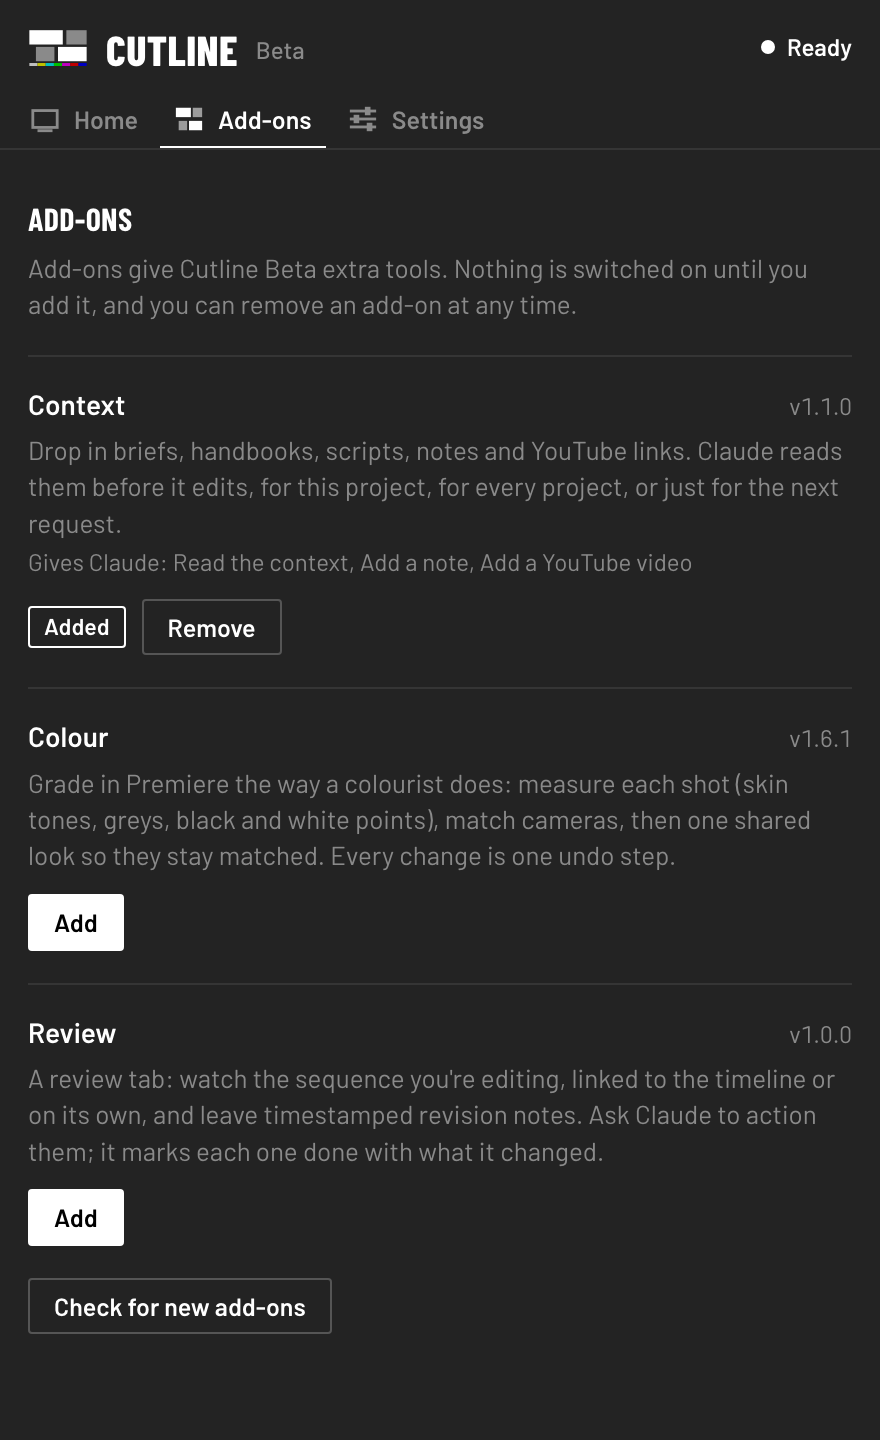
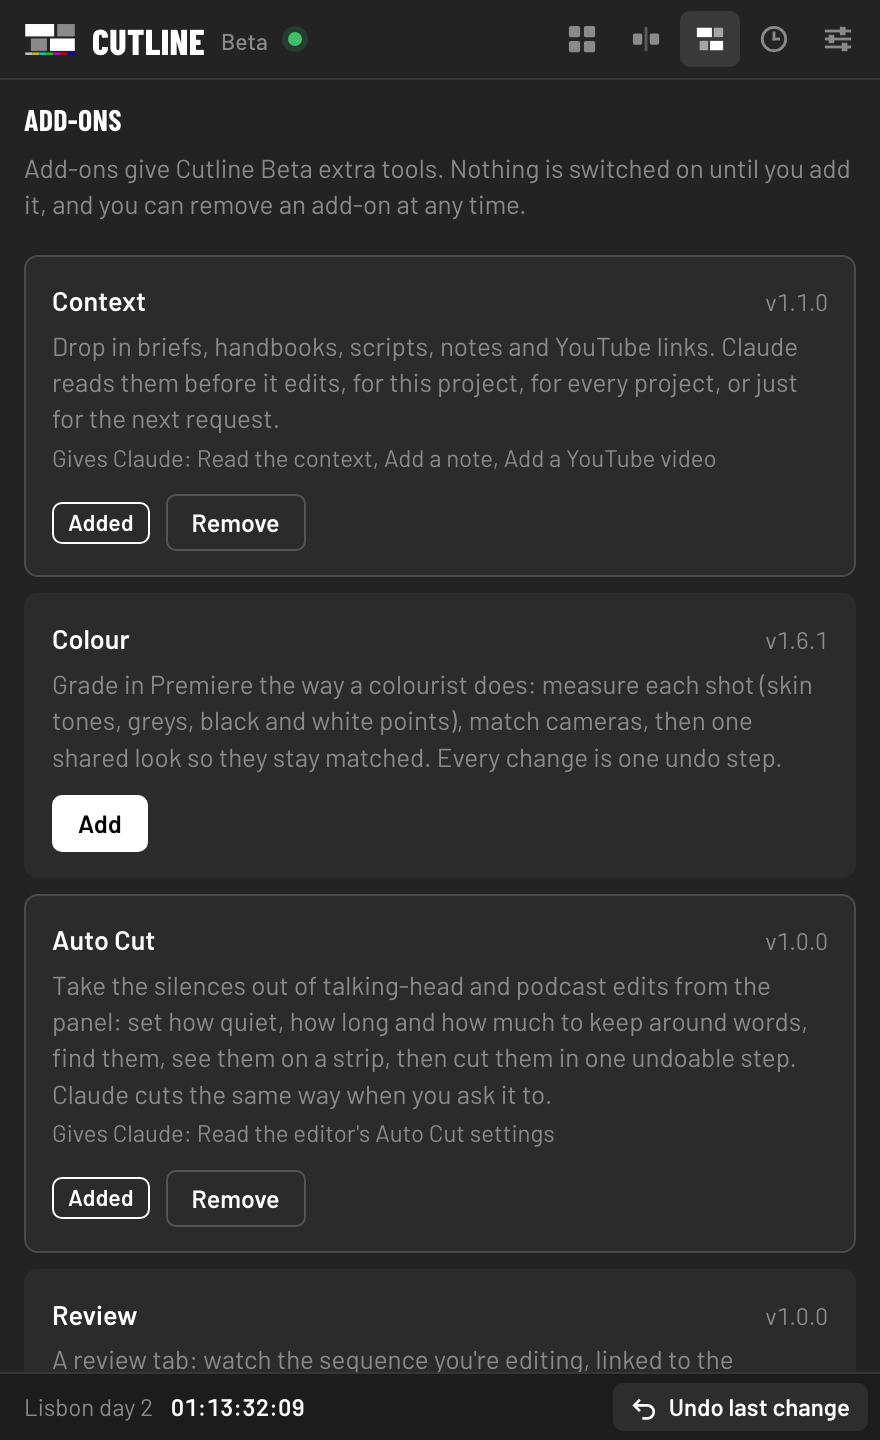
Home: panel screenshots from the 0.17 tile browser

diff --git a/index.html b/index.html
@@ -12,8 +12,8 @@
 <link rel="icon" href="img/favicon.svg" type="image/svg+xml">
 <link rel="preconnect" href="https://fonts.googleapis.com"><link rel="preconnect" href="https://fonts.gstatic.com" crossorigin>
 <link rel="stylesheet" href="https://fonts.googleapis.com/css2?family=Barlow+Condensed:wght@600;700;800&family=Barlow:ital,wght@0,400;0,500;0,600;1,400&display=swap">
-<link rel="stylesheet" href="assets/site.css?v=1792505462">
-<link rel="stylesheet" href="assets/home.css?v=1792505462">
+<link rel="stylesheet" href="assets/site.css?v=1792506187">
+<link rel="stylesheet" href="assets/home.css?v=1792506187">
 </head>
 <body class="home">
 <header class="top"><div class="wrap">
@@ -89,11 +89,11 @@
 <section class="panel-sec" data-marker="The panel">
  <div class="wrap panel-grid">
   <figure class="panel-shot" id="panel-shot">
-   <img src="img/panel/panel-home@2x.png" width="440" height="720" loading="lazy" alt="The Cutline Beta panel docked in Premiere Pro, showing the open sequence and timecode, the last change Cutline made, and an Undo last change button.">
+   <img src="img/panel/panel-home@2x.png" width="440" height="720" loading="lazy" alt="The Cutline Beta panel: a grid of picture tiles for things to ask for, such as Cut a section, Remove gaps and Duck the music, with the open sequence, its timecode and an Undo last change button along the bottom.">
   </figure>
   <div class="panel-copy">
    <h2>It lives next to your timeline</h2>
-   <p>Cutline Beta docks as a panel in Premiere Pro and After Effects. It shows what you have open, the last change it made and a button to take it back. You talk to it from the Claude desktop app, the same way you&rsquo;d brief an assistant editor.</p>
+   <p>Cutline Beta docks as a panel in Premiere Pro and After Effects. It&rsquo;s full of ideas for what to ask, as picture tiles you click to copy, and the bar along the bottom shows what you have open and an undo for Cutline&rsquo;s last change. You talk to it from the Claude desktop app, the same way you&rsquo;d brief an assistant editor.</p>
    <p>It never saves your project unless you ask, keeps a backup of the sequence before big batch edits, and asks before anything risky.</p>
   </div>
  </div>
@@ -158,6 +158,6 @@
  </div>
  <p class="tm">Cutline is independent software. Adobe, Premiere Pro and After Effects are trademarks of Adobe. Claude is a trademark of Anthropic. ChatGPT is a trademark of OpenAI. Cutline isn't made, endorsed or sponsored by any of them. &copy; 2026 Cutline.</p>
 </div></footer><div class="seq" id="seq" aria-hidden="true"><div class="seq-track"><div class="seq-marks" id="seq-marks"></div><div class="seq-head" id="seq-head"></div></div><span class="seq-tc" id="seq-tc">00:00:00:00</span></div>
-<script src="assets/site.js?v=1792505462" defer></script>
+<script src="assets/site.js?v=1792506187" defer></script>
 </body>
 </html>

diff --git a/help/user-guide.html b/help/user-guide.html
@@ -12,7 +12,7 @@
 <link rel="icon" href="../img/favicon.svg" type="image/svg+xml">
 <link rel="preconnect" href="https://fonts.googleapis.com"><link rel="preconnect" href="https://fonts.gstatic.com" crossorigin>
 <link rel="stylesheet" href="https://fonts.googleapis.com/css2?family=Barlow+Condensed:wght@600;700;800&family=Barlow:ital,wght@0,400;0,500;0,600;1,400&display=swap">
-<link rel="stylesheet" href="../assets/site.css?v=1792505462">
+<link rel="stylesheet" href="../assets/site.css?v=1792506187">
 </head>
 <body>
 <header class="top"><div class="wrap">
@@ -133,6 +133,6 @@
  </div>
  <p class="tm">Cutline is independent software. Adobe, Premiere Pro and After Effects are trademarks of Adobe. Claude is a trademark of Anthropic. ChatGPT is a trademark of OpenAI. Cutline isn't made, endorsed or sponsored by any of them. &copy; 2026 Cutline.</p>
 </div></footer><div class="seq" id="seq" aria-hidden="true"><div class="seq-track"><div class="seq-marks" id="seq-marks"></div><div class="seq-head" id="seq-head"></div></div><span class="seq-tc" id="seq-tc">00:00:00:00</span></div>
-<script src="../assets/site.js?v=1792505462" defer></script>
+<script src="../assets/site.js?v=1792506187" defer></script>
 </body>
 </html>

diff --git a/help/commands.html b/help/commands.html
@@ -12,7 +12,7 @@
 <link rel="icon" href="../img/favicon.svg" type="image/svg+xml">
 <link rel="preconnect" href="https://fonts.googleapis.com"><link rel="preconnect" href="https://fonts.gstatic.com" crossorigin>
 <link rel="stylesheet" href="https://fonts.googleapis.com/css2?family=Barlow+Condensed:wght@600;700;800&family=Barlow:ital,wght@0,400;0,500;0,600;1,400&display=swap">
-<link rel="stylesheet" href="../assets/site.css?v=1792505462">
+<link rel="stylesheet" href="../assets/site.css?v=1792506187">
 </head>
 <body>
 <header class="top"><div class="wrap">
@@ -86,6 +86,6 @@
  </div>
  <p class="tm">Cutline is independent software. Adobe, Premiere Pro and After Effects are trademarks of Adobe. Claude is a trademark of Anthropic. ChatGPT is a trademark of OpenAI. Cutline isn't made, endorsed or sponsored by any of them. &copy; 2026 Cutline.</p>
 </div></footer><div class="seq" id="seq" aria-hidden="true"><div class="seq-track"><div class="seq-marks" id="seq-marks"></div><div class="seq-head" id="seq-head"></div></div><span class="seq-tc" id="seq-tc">00:00:00:00</span></div>
-<script src="../assets/site.js?v=1792505462" defer></script>
+<script src="../assets/site.js?v=1792506187" defer></script>
 </body>
 </html>

diff --git a/help/faq.html b/help/faq.html
@@ -12,7 +12,7 @@
 <link rel="icon" href="../img/favicon.svg" type="image/svg+xml">
 <link rel="preconnect" href="https://fonts.googleapis.com"><link rel="preconnect" href="https://fonts.gstatic.com" crossorigin>
 <link rel="stylesheet" href="https://fonts.googleapis.com/css2?family=Barlow+Condensed:wght@600;700;800&family=Barlow:ital,wght@0,400;0,500;0,600;1,400&display=swap">
-<link rel="stylesheet" href="../assets/site.css?v=1792505462">
+<link rel="stylesheet" href="../assets/site.css?v=1792506187">
 </head>
 <body>
 <header class="top"><div class="wrap">
@@ -82,6 +82,6 @@
  </div>
  <p class="tm">Cutline is independent software. Adobe, Premiere Pro and After Effects are trademarks of Adobe. Claude is a trademark of Anthropic. ChatGPT is a trademark of OpenAI. Cutline isn't made, endorsed or sponsored by any of them. &copy; 2026 Cutline.</p>
 </div></footer><div class="seq" id="seq" aria-hidden="true"><div class="seq-track"><div class="seq-marks" id="seq-marks"></div><div class="seq-head" id="seq-head"></div></div><span class="seq-tc" id="seq-tc">00:00:00:00</span></div>
-<script src="../assets/site.js?v=1792505462" defer></script>
+<script src="../assets/site.js?v=1792506187" defer></script>
 </body>
 </html>

diff --git a/help/index.html b/help/index.html
@@ -12,7 +12,7 @@
 <link rel="icon" href="../img/favicon.svg" type="image/svg+xml">
 <link rel="preconnect" href="https://fonts.googleapis.com"><link rel="preconnect" href="https://fonts.gstatic.com" crossorigin>
 <link rel="stylesheet" href="https://fonts.googleapis.com/css2?family=Barlow+Condensed:wght@600;700;800&family=Barlow:ital,wght@0,400;0,500;0,600;1,400&display=swap">
-<link rel="stylesheet" href="../assets/site.css?v=1792505462">
+<link rel="stylesheet" href="../assets/site.css?v=1792506187">
 </head>
 <body>
 <header class="top"><div class="wrap">
@@ -31,6 +31,6 @@
  </div>
  <p class="tm">Cutline is independent software. Adobe, Premiere Pro and After Effects are trademarks of Adobe. Claude is a trademark of Anthropic. ChatGPT is a trademark of OpenAI. Cutline isn't made, endorsed or sponsored by any of them. &copy; 2026 Cutline.</p>
 </div></footer><div class="seq" id="seq" aria-hidden="true"><div class="seq-track"><div class="seq-marks" id="seq-marks"></div><div class="seq-head" id="seq-head"></div></div><span class="seq-tc" id="seq-tc">00:00:00:00</span></div>
-<script src="../assets/site.js?v=1792505462" defer></script>
+<script src="../assets/site.js?v=1792506187" defer></script>
 </body>
 </html>

diff --git a/help/licence-and-devices.html b/help/licence-and-devices.html
@@ -12,7 +12,7 @@
 <link rel="icon" href="../img/favicon.svg" type="image/svg+xml">
 <link rel="preconnect" href="https://fonts.googleapis.com"><link rel="preconnect" href="https://fonts.gstatic.com" crossorigin>
 <link rel="stylesheet" href="https://fonts.googleapis.com/css2?family=Barlow+Condensed:wght@600;700;800&family=Barlow:ital,wght@0,400;0,500;0,600;1,400&display=swap">
-<link rel="stylesheet" href="../assets/site.css?v=1792505462">
+<link rel="stylesheet" href="../assets/site.css?v=1792506187">
 </head>
 <body>
 <header class="top"><div class="wrap">
@@ -56,6 +56,6 @@
  </div>
  <p class="tm">Cutline is independent software. Adobe, Premiere Pro and After Effects are trademarks of Adobe. Claude is a trademark of Anthropic. ChatGPT is a trademark of OpenAI. Cutline isn't made, endorsed or sponsored by any of them. &copy; 2026 Cutline.</p>
 </div></footer><div class="seq" id="seq" aria-hidden="true"><div class="seq-track"><div class="seq-marks" id="seq-marks"></div><div class="seq-head" id="seq-head"></div></div><span class="seq-tc" id="seq-tc">00:00:00:00</span></div>
-<script src="../assets/site.js?v=1792505462" defer></script>
+<script src="../assets/site.js?v=1792506187" defer></script>
 </body>
 </html>

diff --git a/help/quick-start.html b/help/quick-start.html
@@ -12,7 +12,7 @@
 <link rel="icon" href="../img/favicon.svg" type="image/svg+xml">
 <link rel="preconnect" href="https://fonts.googleapis.com"><link rel="preconnect" href="https://fonts.gstatic.com" crossorigin>
 <link rel="stylesheet" href="https://fonts.googleapis.com/css2?family=Barlow+Condensed:wght@600;700;800&family=Barlow:ital,wght@0,400;0,500;0,600;1,400&display=swap">
-<link rel="stylesheet" href="../assets/site.css?v=1792505462">
+<link rel="stylesheet" href="../assets/site.css?v=1792506187">
 </head>
 <body>
 <header class="top"><div class="wrap">
@@ -45,6 +45,6 @@
  </div>
  <p class="tm">Cutline is independent software. Adobe, Premiere Pro and After Effects are trademarks of Adobe. Claude is a trademark of Anthropic. ChatGPT is a trademark of OpenAI. Cutline isn't made, endorsed or sponsored by any of them. &copy; 2026 Cutline.</p>
 </div></footer><div class="seq" id="seq" aria-hidden="true"><div class="seq-track"><div class="seq-marks" id="seq-marks"></div><div class="seq-head" id="seq-head"></div></div><span class="seq-tc" id="seq-tc">00:00:00:00</span></div>
-<script src="../assets/site.js?v=1792505462" defer></script>
+<script src="../assets/site.js?v=1792506187" defer></script>
 </body>
 </html>

diff --git a/help/requirements.html b/help/requirements.html
@@ -12,7 +12,7 @@
 <link rel="icon" href="../img/favicon.svg" type="image/svg+xml">
 <link rel="preconnect" href="https://fonts.googleapis.com"><link rel="preconnect" href="https://fonts.gstatic.com" crossorigin>
 <link rel="stylesheet" href="https://fonts.googleapis.com/css2?family=Barlow+Condensed:wght@600;700;800&family=Barlow:ital,wght@0,400;0,500;0,600;1,400&display=swap">
-<link rel="stylesheet" href="../assets/site.css?v=1792505462">
+<link rel="stylesheet" href="../assets/site.css?v=1792506187">
 </head>
 <body>
 <header class="top"><div class="wrap">
@@ -46,6 +46,6 @@
  </div>
  <p class="tm">Cutline is independent software. Adobe, Premiere Pro and After Effects are trademarks of Adobe. Claude is a trademark of Anthropic. ChatGPT is a trademark of OpenAI. Cutline isn't made, endorsed or sponsored by any of them. &copy; 2026 Cutline.</p>
 </div></footer><div class="seq" id="seq" aria-hidden="true"><div class="seq-track"><div class="seq-marks" id="seq-marks"></div><div class="seq-head" id="seq-head"></div></div><span class="seq-tc" id="seq-tc">00:00:00:00</span></div>
-<script src="../assets/site.js?v=1792505462" defer></script>
+<script src="../assets/site.js?v=1792506187" defer></script>
 </body>
 </html>

diff --git a/help/troubleshooting.html b/help/troubleshooting.html
@@ -12,7 +12,7 @@
 <link rel="icon" href="../img/favicon.svg" type="image/svg+xml">
 <link rel="preconnect" href="https://fonts.googleapis.com"><link rel="preconnect" href="https://fonts.gstatic.com" crossorigin>
 <link rel="stylesheet" href="https://fonts.googleapis.com/css2?family=Barlow+Condensed:wght@600;700;800&family=Barlow:ital,wght@0,400;0,500;0,600;1,400&display=swap">
-<link rel="stylesheet" href="../assets/site.css?v=1792505462">
+<link rel="stylesheet" href="../assets/site.css?v=1792506187">
 </head>
 <body>
 <header class="top"><div class="wrap">
@@ -90,6 +90,6 @@
  </div>
  <p class="tm">Cutline is independent software. Adobe, Premiere Pro and After Effects are trademarks of Adobe. Claude is a trademark of Anthropic. ChatGPT is a trademark of OpenAI. Cutline isn't made, endorsed or sponsored by any of them. &copy; 2026 Cutline.</p>
 </div></footer><div class="seq" id="seq" aria-hidden="true"><div class="seq-track"><div class="seq-marks" id="seq-marks"></div><div class="seq-head" id="seq-head"></div></div><span class="seq-tc" id="seq-tc">00:00:00:00</span></div>
-<script src="../assets/site.js?v=1792505462" defer></script>
+<script src="../assets/site.js?v=1792506187" defer></script>
 </body>
 </html>

diff --git a/legal/licence.html b/legal/licence.html
@@ -12,7 +12,7 @@
 <link rel="icon" href="../img/favicon.svg" type="image/svg+xml">
 <link rel="preconnect" href="https://fonts.googleapis.com"><link rel="preconnect" href="https://fonts.gstatic.com" crossorigin>
 <link rel="stylesheet" href="https://fonts.googleapis.com/css2?family=Barlow+Condensed:wght@600;700;800&family=Barlow:ital,wght@0,400;0,500;0,600;1,400&display=swap">
-<link rel="stylesheet" href="../assets/site.css?v=1792505462">
+<link rel="stylesheet" href="../assets/site.css?v=1792506187">
 </head>
 <body>
 <header class="top"><div class="wrap">
@@ -70,6 +70,6 @@
  </div>
  <p class="tm">Cutline is independent software. Adobe, Premiere Pro and After Effects are trademarks of Adobe. Claude is a trademark of Anthropic. ChatGPT is a trademark of OpenAI. Cutline isn't made, endorsed or sponsored by any of them. &copy; 2026 Cutline.</p>
 </div></footer><div class="seq" id="seq" aria-hidden="true"><div class="seq-track"><div class="seq-marks" id="seq-marks"></div><div class="seq-head" id="seq-head"></div></div><span class="seq-tc" id="seq-tc">00:00:00:00</span></div>
-<script src="../assets/site.js?v=1792505462" defer></script>
+<script src="../assets/site.js?v=1792506187" defer></script>
 </body>
 </html>

diff --git a/legal/privacy.html b/legal/privacy.html
@@ -12,7 +12,7 @@
 <link rel="icon" href="../img/favicon.svg" type="image/svg+xml">
 <link rel="preconnect" href="https://fonts.googleapis.com"><link rel="preconnect" href="https://fonts.gstatic.com" crossorigin>
 <link rel="stylesheet" href="https://fonts.googleapis.com/css2?family=Barlow+Condensed:wght@600;700;800&family=Barlow:ital,wght@0,400;0,500;0,600;1,400&display=swap">
-<link rel="stylesheet" href="../assets/site.css?v=1792505462">
+<link rel="stylesheet" href="../assets/site.css?v=1792506187">
 </head>
 <body>
 <header class="top"><div class="wrap">
@@ -65,6 +65,6 @@
  </div>
  <p class="tm">Cutline is independent software. Adobe, Premiere Pro and After Effects are trademarks of Adobe. Claude is a trademark of Anthropic. ChatGPT is a trademark of OpenAI. Cutline isn't made, endorsed or sponsored by any of them. &copy; 2026 Cutline.</p>
 </div></footer><div class="seq" id="seq" aria-hidden="true"><div class="seq-track"><div class="seq-marks" id="seq-marks"></div><div class="seq-head" id="seq-head"></div></div><span class="seq-tc" id="seq-tc">00:00:00:00</span></div>
-<script src="../assets/site.js?v=1792505462" defer></script>
+<script src="../assets/site.js?v=1792506187" defer></script>
 </body>
 </html>

diff --git a/legal/refunds.html b/legal/refunds.html
@@ -12,7 +12,7 @@
 <link rel="icon" href="../img/favicon.svg" type="image/svg+xml">
 <link rel="preconnect" href="https://fonts.googleapis.com"><link rel="preconnect" href="https://fonts.gstatic.com" crossorigin>
 <link rel="stylesheet" href="https://fonts.googleapis.com/css2?family=Barlow+Condensed:wght@600;700;800&family=Barlow:ital,wght@0,400;0,500;0,600;1,400&display=swap">
-<link rel="stylesheet" href="../assets/site.css?v=1792505462">
+<link rel="stylesheet" href="../assets/site.css?v=1792506187">
 </head>
 <body>
 <header class="top"><div class="wrap">
@@ -39,6 +39,6 @@
  </div>
  <p class="tm">Cutline is independent software. Adobe, Premiere Pro and After Effects are trademarks of Adobe. Claude is a trademark of Anthropic. ChatGPT is a trademark of OpenAI. Cutline isn't made, endorsed or sponsored by any of them. &copy; 2026 Cutline.</p>
 </div></footer><div class="seq" id="seq" aria-hidden="true"><div class="seq-track"><div class="seq-marks" id="seq-marks"></div><div class="seq-head" id="seq-head"></div></div><span class="seq-tc" id="seq-tc">00:00:00:00</span></div>
-<script src="../assets/site.js?v=1792505462" defer></script>
+<script src="../assets/site.js?v=1792506187" defer></script>
 </body>
 </html>
